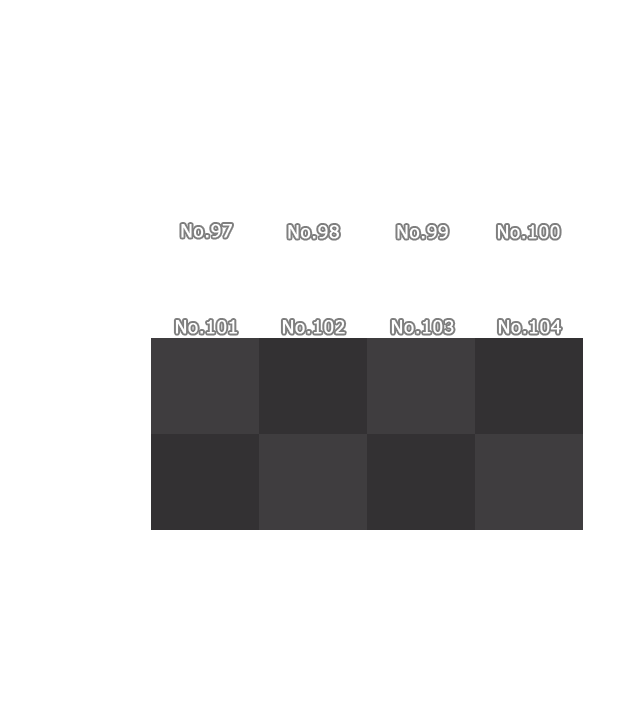
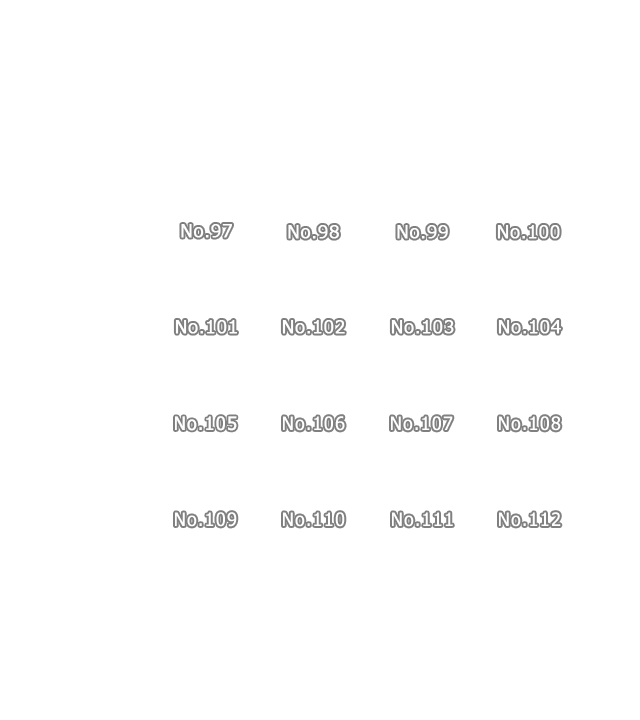
Add spells 105 to 124

Changed region(s): [[0.2188, 0.4583, 0.9375, 0.7333]]

diff --git a/src/services/spell/spells.ts b/src/services/spell/spells.ts
@@ -13,9 +13,9 @@ interface SpellDetails {
 }
 
 const spells: Spells = {
-  page: 7,
+  page: 8,
   spellsPerPage: 16,
-  number: 104,
+  number: 124,
   special: {
     11: { places: ["Field", "Dungeon"] },
     17: { places: ["LaNoscea", "Thanalan", "BlackShroud", "Dungeon", "Dungeon"] },
